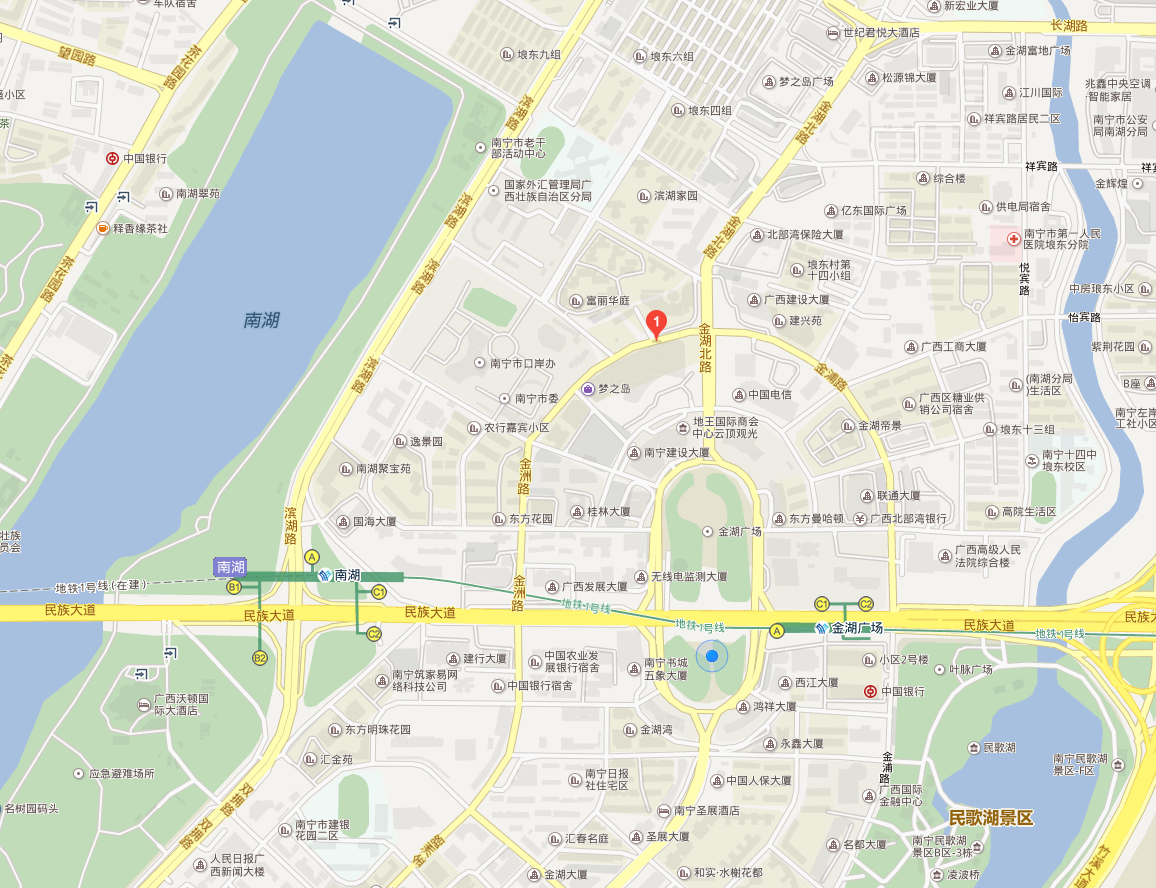
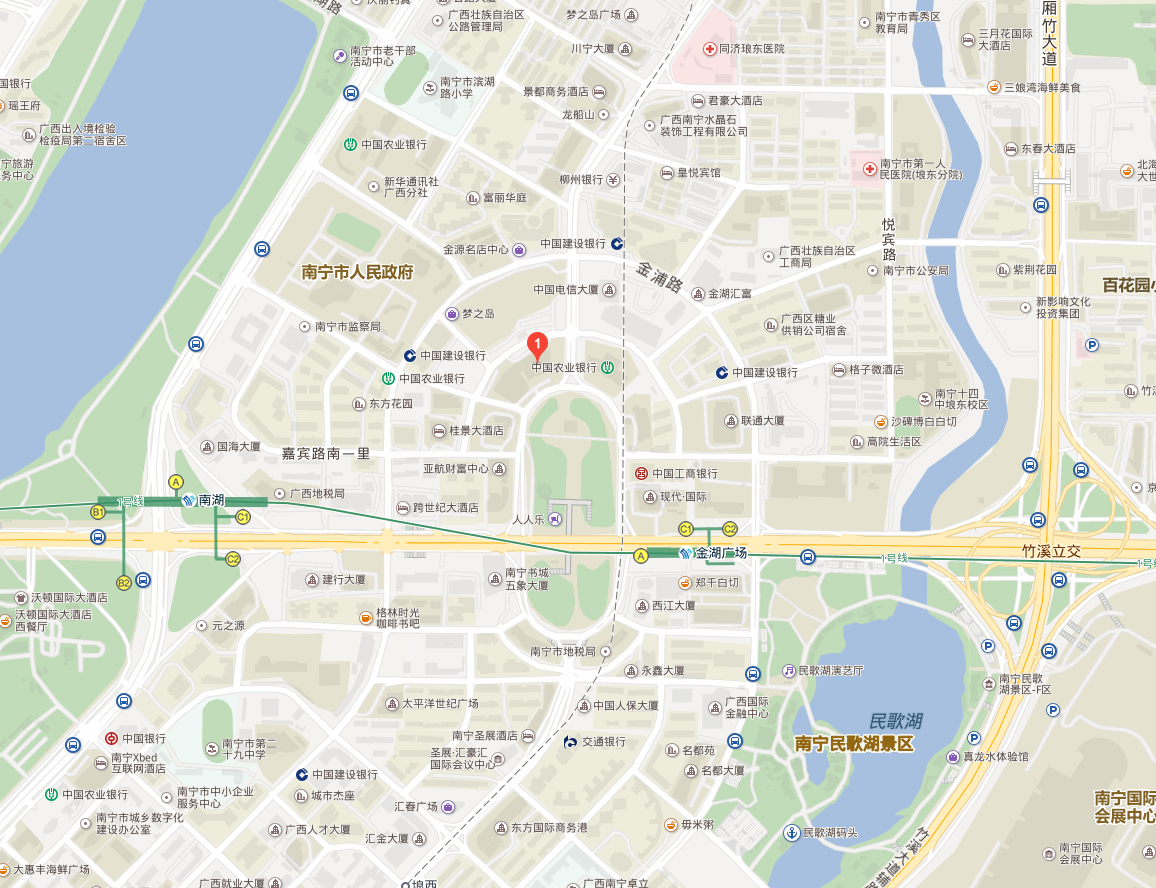
官网修改

diff --git a/work/jyblue/index.html b/work/jyblue/index.html
@@ -1009,7 +1009,7 @@
 
                                 <div class="col-sm-12">
                                     <p>
-                                        <i class="icon-present"></i> <b>工作地点</b>：南宁(金湖广场佳得水晶城B座2701室)
+                                        <i class="icon-present"></i> <b>工作地点</b>：南宁(广西壮族自治区南宁市青秀区金湖路59号地王国际商会31A)
                                     </p>
                                 </div>
 
@@ -1053,7 +1053,7 @@
                                     </div>                          
                                     <div class="col-sm-12">
                                         <p>
-                                            <i class="icon-present"></i> <b>工作地点：</b>南宁(金湖广场佳得水晶城B座2701室)
+                                            <i class="icon-present"></i> <b>工作地点：</b>南宁(广西壮族自治区南宁市青秀区金湖路59号地王国际商会31A)
                                         </p>
                                     </div>
                                 </div>
@@ -1095,7 +1095,7 @@
                                     </div>    
                                     <div class="col-sm-12">
                                         <p>
-                                            <i class="icon-present"></i> <b>工作地点：</b>南宁(金湖广场佳得水晶城B座2701室)
+                                            <i class="icon-present"></i> <b>工作地点：</b>南宁(广西壮族自治区南宁市青秀区金湖路59号地王国际商会31A)
                                         </p>
                                     </div>
                                 </div>
@@ -1137,7 +1137,7 @@
                                     </div>
                                     <div class="col-sm-12">
                                         <p>
-                                            <i class="icon-present"></i> <b>工作地点：</b>南宁(金湖广场佳得水晶城B座2701室)
+                                            <i class="icon-present"></i> <b>工作地点：</b>南宁(广西壮族自治区南宁市青秀区金湖路59号地王国际商会31A)
                                         </p>
                                     </div>
                                 </div>
@@ -1161,8 +1161,7 @@
             <a href="#address_modal" data-toggle="modal">
                     <i class="icon-location-pin"></i>
                 </a>
-                <p>南宁市青秀区金湖路
-                61号佳得水晶城B座2701</p>
+                <p>广西壮族自治区南宁市青秀区金湖路59号地王国际商会31A</p>
           </div>
         </div>  
         <div class="col-md-4 to-animate">

diff --git a/例子/百度麻点图.html b/例子/百度麻点图.html
@@ -35,7 +35,7 @@
       width:95px;
     }
   </style>
-  <script type="text/javascript" src="http://api.map.baidu.com/api?v=2.0&ak=FW5Y6wrPTrGOCtf7BvapCGyrkrICQlkt"></script>
+  <script type="text/javascript" src="http://api.map.baidu.com/api?v=2.0&ak=NV8EkGTSFub4gkNlSHT6NDSymlVpW0pj"></script>
   <!-- 加载百度地图样式信息窗口 -->
   <script type="text/javascript" src="http://api.map.baidu.com/library/SearchInfoWindow/1.5/src/SearchInfoWindow_min.js"></script>
   <link rel="stylesheet" href="http://api.map.baidu.com/library/SearchInfoWindow/1.5/src/SearchInfoWindow_min.css" />
@@ -48,15 +48,20 @@
 <script type="text/javascript">
   // 百度地图API功能
   var map = new BMap.Map("l-map");          // 创建地图实例
-  var point = new BMap.Point(108.344528,22.862783);  // 创建点坐标
-  map.centerAndZoom(point, 14);                 // 初始化地图，设置中心点坐标和地图级别
+  var point = new BMap.Point(108.344528,22.782783);  // 创建点坐标
+  map.centerAndZoom(point, 13);                 // 初始化地图，设置中心点坐标和地图级别
   map.enableScrollWheelZoom();
   map.addControl(new BMap.NavigationControl());  //添加默认缩放平移控件
   var customLayer=new BMap.CustomLayer({
-      geotableId: 177965,
+      geotableId: 178203,
     });
   map.addTileLayer(customLayer);
   customLayer.addEventListener('hotspotclick',callback);
+  var customLayer2=new BMap.CustomLayer({
+      geotableId: 178204,
+    });
+  map.addTileLayer(customLayer2);
+  customLayer2.addEventListener('hotspotclick',callback2);
   function callback(e)//单击热点图层
   {
       console.log(e)
@@ -71,4 +76,18 @@
       var point = new BMap.Point(customPoi.point.lng, customPoi.point.lat);
       searchInfoWindow.open(point);
   }  
+  function callback2(e)//单击热点图层
+  {
+      console.log(e)
+      var customPoi = e.customPoi;//poi的默认字段
+      var contentPoi=e.content;//poi的自定义字段
+      var content = '<div class="textComtent"><p>地址：' + customPoi.address + '</p></div><div class="textImg"><img src="' +contentPoi.imgUrl+'"><div>';
+      var searchInfoWindow = new BMapLib.SearchInfoWindow(map, content, {
+        title: customPoi.title, //标题
+        width: 240, //宽度
+        height: 140, //高度
+      });
+      var point = new BMap.Point(customPoi.point.lng, customPoi.point.lat);
+      searchInfoWindow.open(point);
+  }
 </script>
